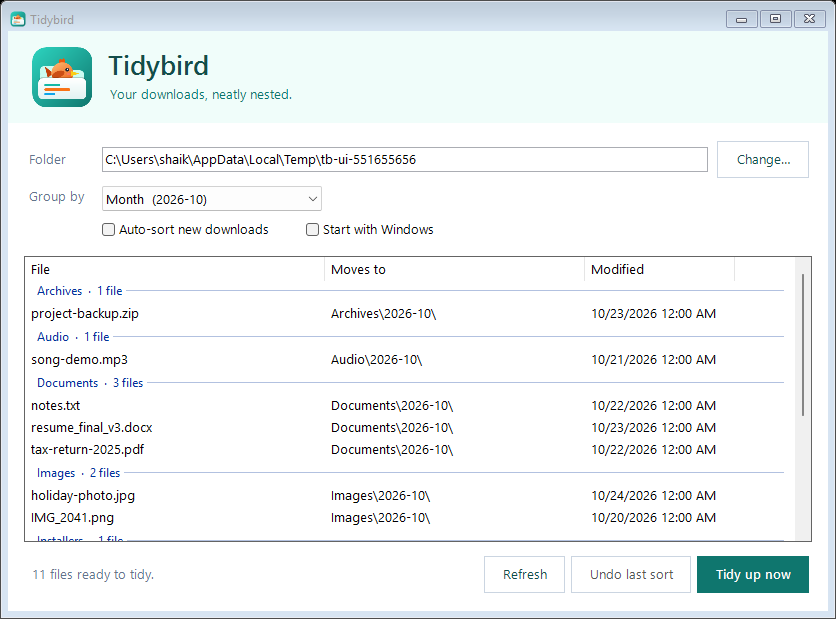
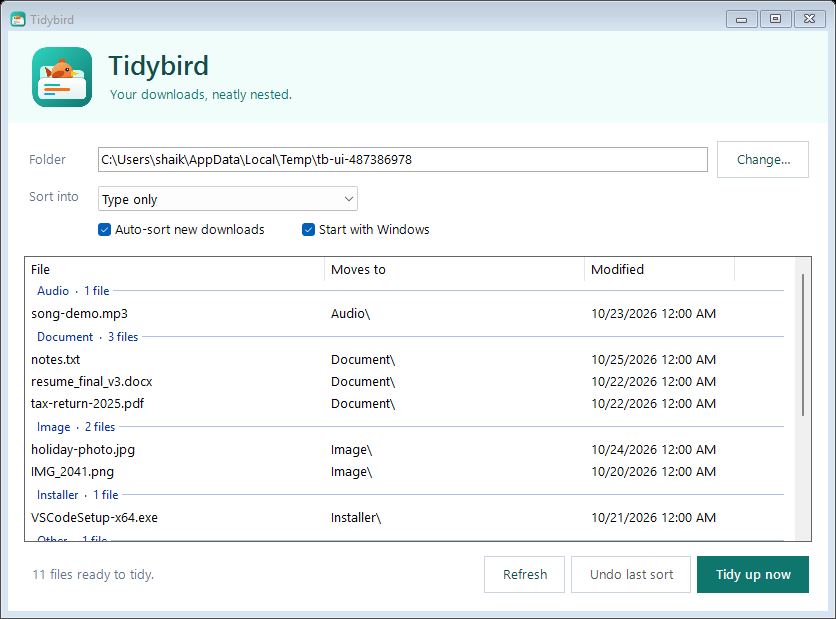
Sort by type only into plain folder names, fix undo and startup bugs
- Sort into type folders only by default (Image, Zip, Document, ...);
  date subfolders are now optional under "Sort into"
- Undo keeps files it could not move back, so they can be retried
- Never move the app's own exe; skip files that vanish mid-scan
- Write each undo log entry as the file moves; unique log names
- Fill the preview when the window first opens; throttle live refresh
- Sharp tray icon from an embedded .ico; ellipsize long status text
- Undo still cleans up folders named by earlier versions
- Tests: 34 cases, including type-only layout and legacy folders

diff --git a/src/Sorter.cs b/src/Sorter.cs
@@ -28,19 +28,29 @@ namespace Tidybird
     {
         public static readonly KeyValuePair<string, string[]>[] Categories =
         {
-            Cat("Images", "jpg jpeg png gif bmp webp svg heic tif tiff ico raw"),
-            Cat("Videos", "mp4 mkv mov avi wmv webm flv m4v"),
+            Cat("Image", "jpg jpeg png gif bmp webp svg heic tif tiff ico raw"),
+            Cat("Video", "mp4 mkv mov avi wmv webm flv m4v"),
             Cat("Audio", "mp3 wav flac aac ogg m4a wma opus"),
-            Cat("Documents", "pdf doc docx odt rtf txt md epub"),
-            Cat("Spreadsheets", "xls xlsx ods csv tsv"),
-            Cat("Slides", "ppt pptx odp key"),
-            Cat("Archives", "zip rar 7z tar gz bz2 xz tgz"),
-            Cat("Installers", "exe msi msix appx dmg pkg deb rpm apk iso"),
+            Cat("Document", "pdf doc docx odt rtf txt md epub"),
+            Cat("Spreadsheet", "xls xlsx ods csv tsv"),
+            Cat("Slide", "ppt pptx odp key"),
+            Cat("Zip", "zip rar 7z tar gz bz2 xz tgz"),
+            Cat("Installer", "exe msi msix appx dmg pkg deb rpm apk iso"),
             Cat("Code", "py js ts json html css java c cpp cs go rs sh ps1 ipynb xml yml yaml sql"),
-            Cat("Fonts", "ttf otf woff woff2"),
-            Cat("Torrents", "torrent"),
+            Cat("Font", "ttf otf woff woff2"),
+            Cat("Torrent", "torrent"),
         };
         public const string OtherCategory = "Other";
+
+        // Folder names used by earlier versions; undo still tidies these up when they empty out
+        static readonly string[] LegacyCategories =
+        {
+            "Images", "Videos", "Audio", "Documents", "Spreadsheets", "Slides", "Archives",
+            "Installers", "Code", "Fonts", "Torrents", "Other",
+            "Image Downloads", "Video Downloads", "Audio Downloads", "Document Downloads",
+            "Spreadsheet Downloads", "Slide Downloads", "Zip Downloads", "Installer Downloads",
+            "Code Downloads", "Font Downloads", "Torrent Downloads", "Other Downloads"
+        };
         public const string LogDirName = ".sort-logs";
 
         // The running Tidybird.exe; never moved, even when it sits in the sorted folder
@@ -217,7 +227,7 @@ namespace Tidybird
         // Only category folders are pruned, never folders the user made
         static void RemoveEmptyCategoryFolders(string folder)
         {
-            var roots = Categories.Select(c => c.Key).Concat(new[] { OtherCategory })
+            var roots = Categories.Select(c => c.Key).Concat(new[] { OtherCategory }).Concat(LegacyCategories)
                 .Select(c => Path.Combine(folder, c)).Where(Directory.Exists);
             foreach (string root in roots)
             {

diff --git a/src/App.cs b/src/App.cs
@@ -37,7 +37,7 @@ namespace Tidybird
     class Settings
     {
         public string Folder;
-        public string DateFormat = "yyyy-MM";
+        public string DateFormat = "";
         public bool AutoSort;
         public bool TrayTipShown;
 
@@ -116,10 +116,10 @@ namespace Tidybird
 
         static readonly KeyValuePair<string, string>[] DateOptions =
         {
-            new KeyValuePair<string, string>("Month  (2026-10)", "yyyy-MM"),
-            new KeyValuePair<string, string>("Year  (2026)", "yyyy"),
-            new KeyValuePair<string, string>("Day  (2026-10-31)", "yyyy-MM-dd"),
-            new KeyValuePair<string, string>("Don't group by date", ""),
+            new KeyValuePair<string, string>("Type only", ""),
+            new KeyValuePair<string, string>("Type, then month  (2026-10)", "yyyy-MM"),
+            new KeyValuePair<string, string>("Type, then year  (2026)", "yyyy"),
+            new KeyValuePair<string, string>("Type, then day  (2026-10-31)", "yyyy-MM-dd"),
         };
 
         readonly Settings settings = Settings.Load();
@@ -155,7 +155,8 @@ namespace Tidybird
             ResumeLayout(true);
 
             refreshTimer = new System.Windows.Forms.Timer { Interval = 800 };
-            refreshTimer.Tick += delegate { refreshTimer.Stop(); RefreshPreview(); };            autoTimer = new System.Windows.Forms.Timer { Interval = 20000 };
+            refreshTimer.Tick += delegate { refreshTimer.Stop(); RefreshPreview(); };
+            autoTimer = new System.Windows.Forms.Timer { Interval = 20000 };
             autoTimer.Tick += delegate { AutoSortTick(); };
             autoTimer.Start();
 
@@ -226,7 +227,7 @@ namespace Tidybird
             opts.Controls.Add(folderBox, 1, 0);
             opts.Controls.Add(browse, 2, 0);
 
-            dateBox = new ComboBox { DropDownStyle = ComboBoxStyle.DropDownList, Width = 220, Margin = new Padding(3, 5, 3, 3) };
+            dateBox = new ComboBox { DropDownStyle = ComboBoxStyle.DropDownList, Width = 260, Margin = new Padding(3, 5, 3, 3) };
             foreach (var o in DateOptions) dateBox.Items.Add(o.Key);
             dateBox.SelectedIndexChanged += delegate
             {
@@ -235,7 +236,7 @@ namespace Tidybird
                 settings.Save();
                 RefreshPreview();
             };
-            opts.Controls.Add(MakeLabel("Group by"), 0, 1);
+            opts.Controls.Add(MakeLabel("Sort into"), 0, 1);
             opts.Controls.Add(dateBox, 1, 1);
 
             var checks = new FlowLayoutPanel { AutoSize = true, AutoSizeMode = AutoSizeMode.GrowAndShrink, WrapContents = false, Margin = new Padding(0, 4, 0, 0) };

diff --git a/README.md b/README.md
@@ -3,8 +3,8 @@
 <h1 align="center">Tidybird</h1>
 <p align="center">Your downloads, neatly nested.</p>
 
-Tidybird is a small Windows app that sorts your Downloads folder into
-`<Category>\<YYYY-MM>\` subfolders, for example `Images\2026-10\photo.jpg`.
+Tidybird is a small Windows app that sorts your Downloads folder by type,
+for example `Image\photo.jpg` and `Zip\backup.zip`.
 
 ![Tidybird window](screenshot.png)
 
@@ -14,14 +14,14 @@ Tidybird is a small Windows app that sorts your Downloads folder into
 - **Tidy up now** sorts in one click; **Undo last sort** puts files back, one run at a time
 - **Auto-sort** new downloads about a minute after they finish, from the system tray
 - **Start with Windows** (optional), hidden in the tray
-- Group by month, year, day, or not by date
+- Sorts by type only by default; can optionally add month, year or day subfolders
 - Never touches unfinished downloads (`.crdownload`, `.part`, `.tmp`), hidden files,
   files open in another program, subfolders, or its own exe
 - Never overwrites: name clashes become `name (1).ext`
 - Tiny: one ~60 KB exe, about 25 MB of memory, no install, no internet access
 
-Categories: Images, Videos, Audio, Documents, Spreadsheets, Slides, Archives,
-Installers, Code, Fonts, Torrents, Other. Edit them in `src/Sorter.cs`.
+Folders: Image, Video, Audio, Document, Spreadsheet, Slide, Zip, Installer, Code,
+Font, Torrent and Other. Edit them in `src/Sorter.cs`.
 
 ## Build
 
